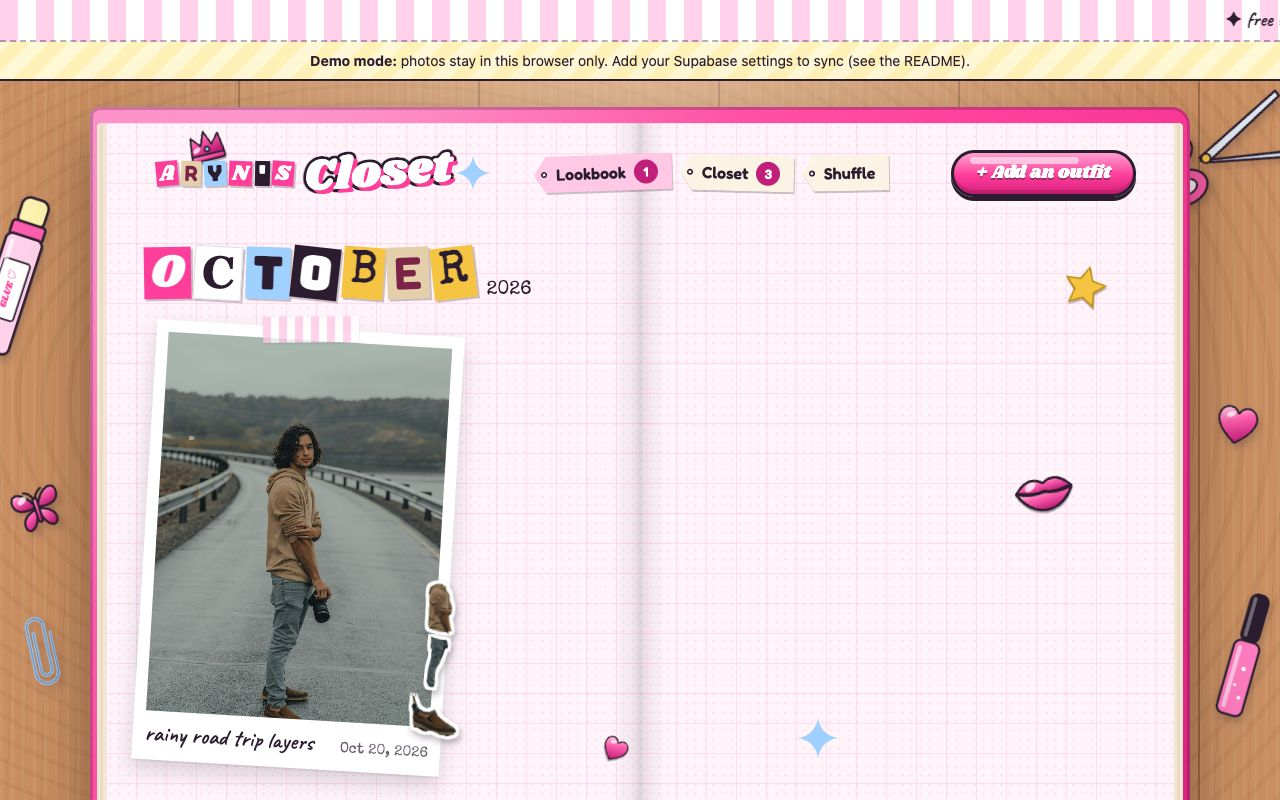
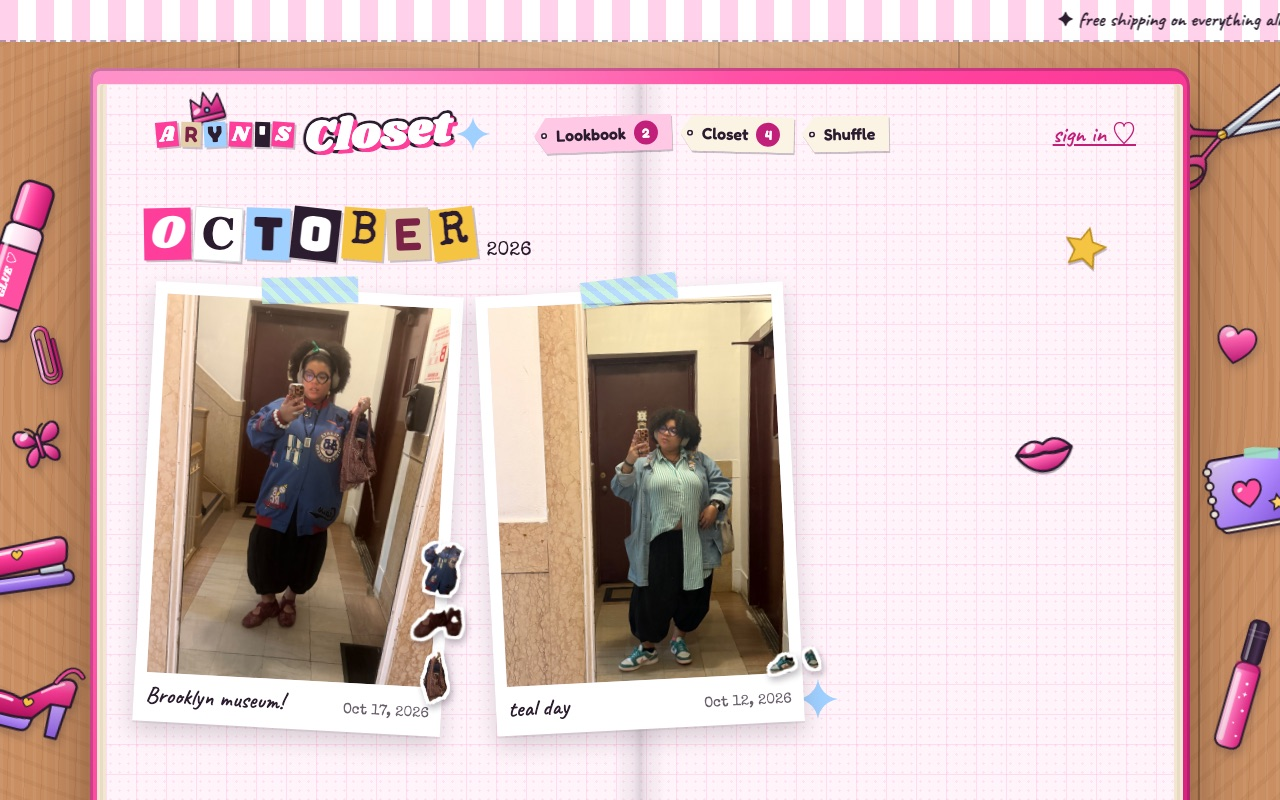
Use real closet screenshots in the portfolio
Replace the demo photo on the Aryn's Closet entry with the live lookbook
(cover) and closet board (body image), describe what each shows, and retake
the README portfolio screenshot.

diff --git a/src/content/portfolio.ts b/src/content/portfolio.ts
@@ -60,7 +60,7 @@ export const projects: Project[] = [
     format: 'React + Supabase web app with on-device ML',
     summary: 'A Y2K scrapbook lookbook that cuts each piece of clothing out of an outfit photo, on the device, and catalogs it.',
     tags: ['React', 'TypeScript', 'Computer vision', 'Supabase'],
-    cover: { src: 'images/portfolio/closet-lookbook.jpg', alt: 'Aryn’s Closet lookbook: an outfit polaroid taped into a pink scrapbook on a wooden desk.' },
+    cover: { src: 'images/portfolio/closet-lookbook.jpg', alt: 'Aryn’s Closet lookbook for October 2026: two outfit polaroids, “Brooklyn museum!” and “teal day”, taped into a pink scrapbook with sticker cut-outs of the pieces worn.' },
     links: [
       { label: 'Open the closet ↗', href: 'https://closet.arynlynn.com' },
       { label: 'Code on GitHub ↗', href: 'https://github.com/aryndavis/aryns-closet' },
@@ -71,7 +71,7 @@ export const projects: Project[] = [
         type: 'p',
         text: 'Upload an outfit photo and it becomes a page in a Bratz-meets-scrapbook lookbook. Every fully visible piece of clothing is cut out into a sticker and added to my closet, and an outfit roulette shuffles those pieces into new looks.',
       },
-      { type: 'image', src: 'images/portfolio/closet-scanner.jpg', alt: 'The review step: the scanner found three pieces in an outfit photo, each cut out as a sticker to name and categorize.' },
+      { type: 'image', src: 'images/portfolio/closet-board.jpg', alt: 'The closet page: four pieces cut out as stickers (teal and pink Dunks, a Negro Baseball League letterman jacket, dark red tabis and a dark red bandana bag), filterable by category.' },
       { type: 'h', text: 'Features' },
       {
         type: 'list',
